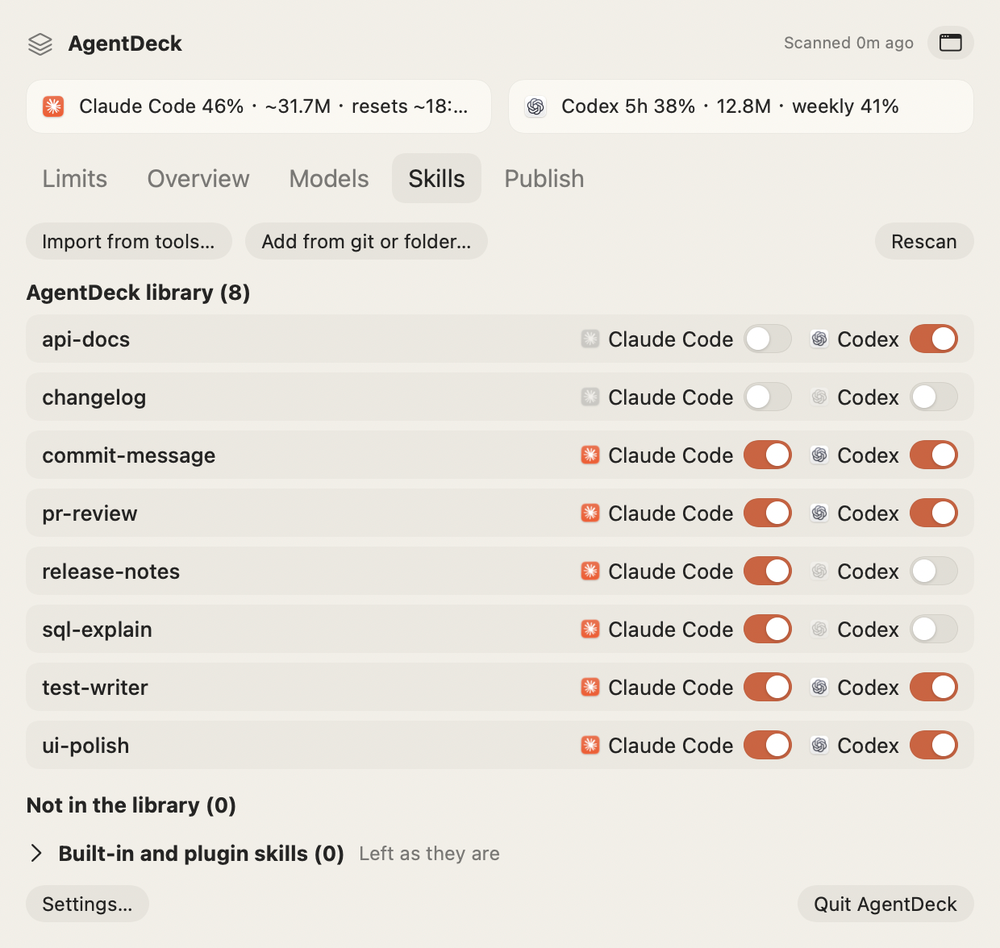
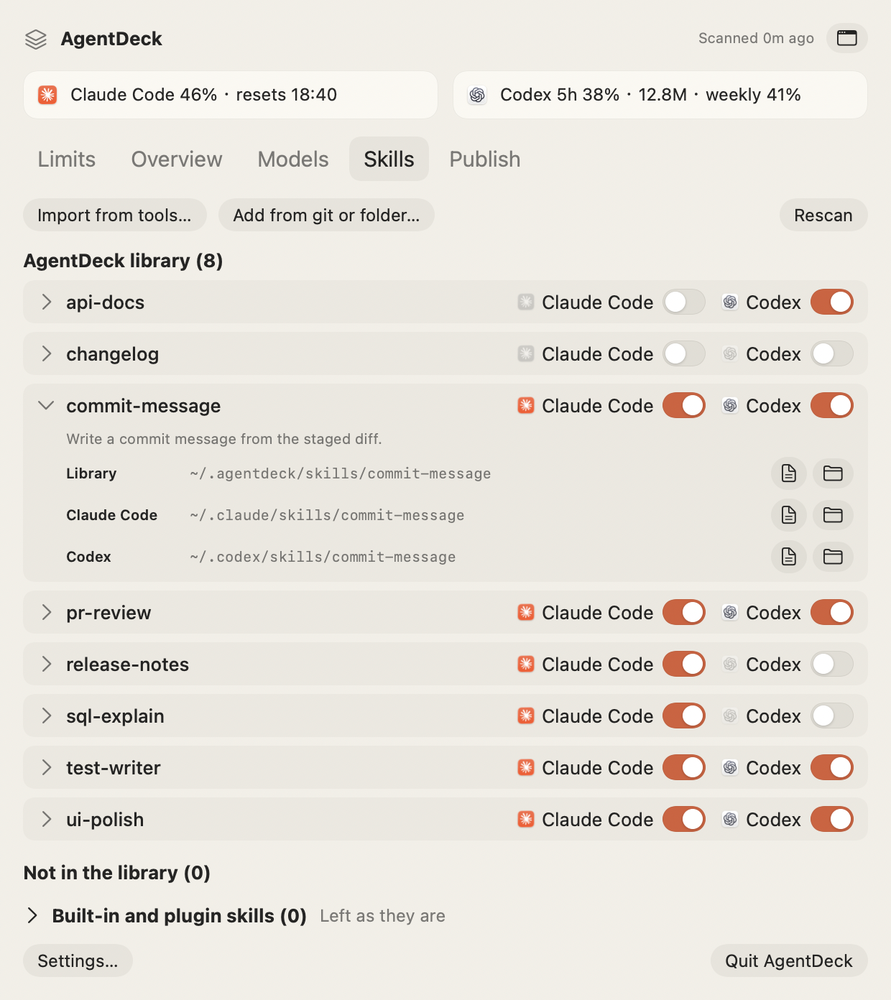
Show the skill locations in the screenshots and on the website
The Skills screenshot shows one skill opened to its folders, and the
README and website say a click reveals them. With --home, the renderer
shows the stand-in home as ~ (resolving /tmp to /private/tmp), so
screenshots carry no local path.

diff --git a/docs/index.html b/docs/index.html
@@ -156,11 +156,11 @@
       <header class="section-head reveal">
         <p class="kicker mono">02 — <span data-i18n="skills.kicker">Skills</span></p>
         <h2><span data-i18n="skills.title1">One skill library</span> <em data-i18n="skills.title2">for Claude Code and Codex.</em></h2>
-        <p class="section-sub" data-i18n="skills.sub">Each tool has its own skills folder. AgentDeck keeps your skills in ~/.agentdeck/skills, and you switch each one on per tool.</p>
+        <p class="section-sub" data-i18n="skills.sub">Each tool has its own skills folder. AgentDeck keeps your skills in ~/.agentdeck/skills, and you switch each one on per tool. Click a skill to see every folder it lives in, open its SKILL.md or show it in Finder.</p>
       </header>
       <div class="skills">
         <figure class="frame frame-skills reveal">
-          <img src="site/img/skills-dark.webp" loading="lazy" width="1240" height="1176" alt="The Skills tab: a library of skills with a Claude Code switch and a Codex switch on each" />
+          <img src="site/img/skills-dark.webp" loading="lazy" width="1240" height="1392" alt="The Skills tab: a library of skills with a Claude Code switch and a Codex switch on each" />
         </figure>
         <ul class="skill-points">
           <li class="reveal">

diff --git a/docs/site/site.js b/docs/site/site.js
@@ -60,7 +60,7 @@
     "skills.kicker": "技能",
     "skills.title1": "Claude Code 和 Codex",
     "skills.title2": "共用一个技能库。",
-    "skills.sub": "两个工具各有自己的技能文件夹。AgentDeck 把技能放在 ~/.agentdeck/skills 里统一管理，每个技能给哪个工具用，打开对应的开关就行。",
+    "skills.sub": "两个工具各有自己的技能文件夹。AgentDeck 把技能放在 ~/.agentdeck/skills 里统一管理，每个技能给哪个工具用，打开对应的开关就行。点一下技能名，能看到它在每个位置的路径，直接打开 SKILL.md 或在 Finder 里显示。",
     "s1.title": "按工具开关",
     "s1.body": "同一个技能可以只给 Claude Code、只给 Codex，或者两个都给。Claude Code 拿到的是一份副本，因为 Claude 桌面端会跳过链接过去的文件夹；Codex 拿到的是链接。在技能库里改了技能，副本会跟着更新。",
     "s2.title": "导入已有的技能",

diff --git a/Sources/AgentDeckCore/Skills/SkillLibrary.swift b/Sources/AgentDeckCore/Skills/SkillLibrary.swift
@@ -61,10 +61,17 @@ public struct SkillPlan: Equatable, Sendable {
     }
 
     /// The path with the home folder shown as `~`.
+    /// The folder shown as `~`. `--render-menu --home` points it at the stand-in home, so
+    /// screenshots never show a local path.
+    nonisolated(unsafe) public static var displayHome = FileManager.default.homeDirectoryForCurrentUser
+
     public static func tilde(_ url: URL) -> String {
-        let home = FileManager.default.homeDirectoryForCurrentUser.path
-        let path = url.path
-        return path.hasPrefix(home) ? "~" + path.dropFirst(home.count) : path
+        // Compare with symlinks resolved: /tmp and /private/tmp are the same folder.
+        for (home, path) in [(displayHome.path, url.path), (displayHome.resolvingSymlinksInPath().path, url.resolvingSymlinksInPath().path)]
+        where path == home || path.hasPrefix(home + "/") {
+            return "~" + path.dropFirst(home.count)
+        }
+        return url.path
     }
 }
 

diff --git a/Sources/AgentDeck/AgentDeckApp.swift b/Sources/AgentDeck/AgentDeckApp.swift
@@ -173,6 +173,7 @@ enum MenuRenderer {
         }
         let home = arguments.firstIndex(of: "--home").flatMap { arguments.indices.contains($0 + 1) ? URL(fileURLWithPath: arguments[$0 + 1]) : nil }
         let model = AppModel(databaseURL: URL(fileURLWithPath: arguments[dbIndex + 1]), home: home)
+        if let home { SkillPlan.displayHome = home }
         if let index = arguments.firstIndex(of: "--now"), arguments.indices.contains(index + 1) {
             model.clockOverride = ISO8601DateFormatter().date(from: arguments[index + 1])
         }

diff --git a/README.md b/README.md
@@ -57,7 +57,8 @@ Claude Code's own stats card shows.
 One library in `~/.agentdeck/skills` (a git repository) for the skills Claude Code and Codex load, with
 a switch per tool. Enabling a skill puts a copy into `~/.claude/skills` (the Claude app skips symlinked
 skill folders) or a link into `~/.codex/skills`; copies are refreshed when the library changes. Skill
-packs such as research-co-pilot show as one row.
+packs such as research-co-pilot show as one row. Click a skill to see every folder it lives in, with
+buttons to open its `SKILL.md` or show it in Finder.
 
 <p align="center">
   <img src="docs/images/skills.png" width="560" alt="The Skills tab: the library with a switch per tool" />
